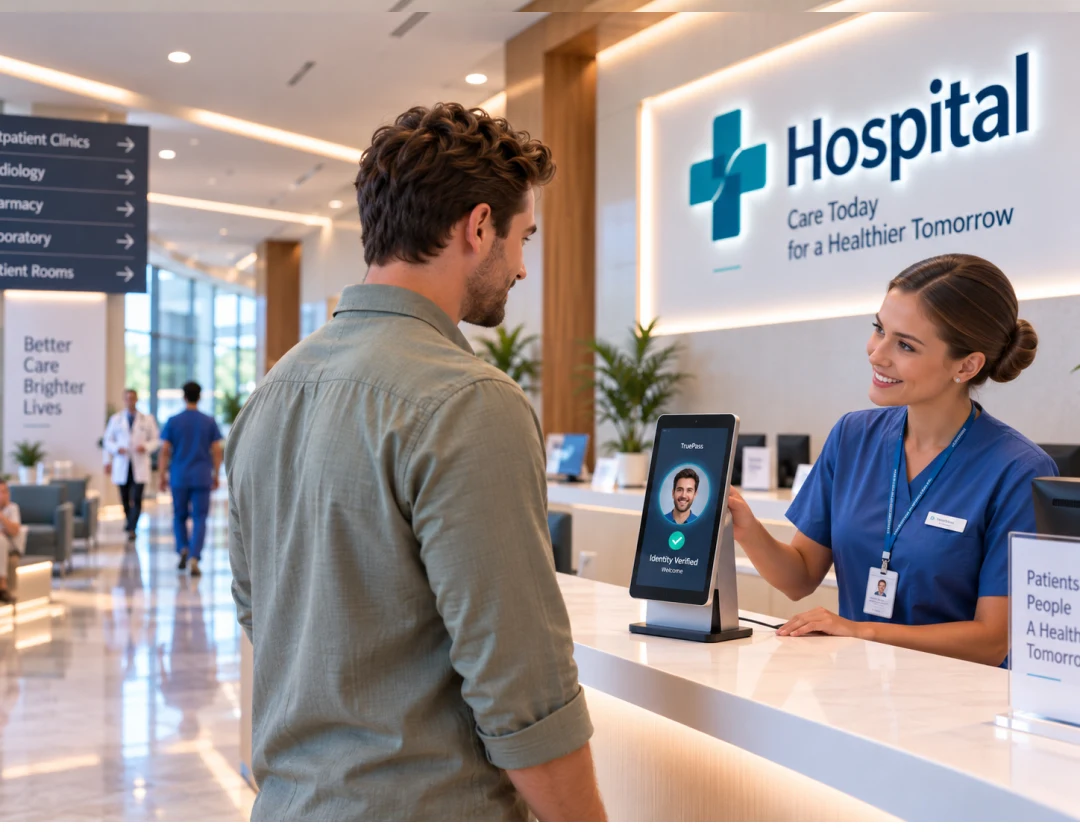
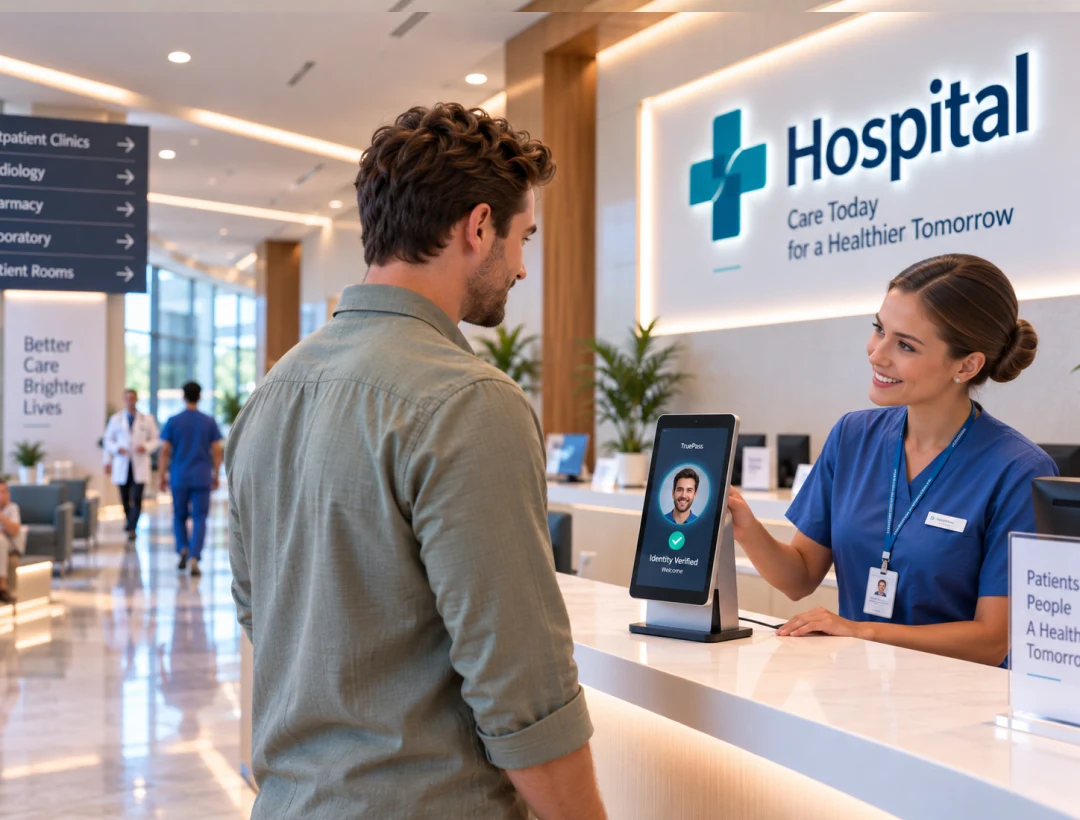
Fix Users copy punctuation and balance industry panel
QA bugs TP-011 to TP-015. Users page: colon in the hero identity line,
comma in the fraud benefit, bracketed checkpoint list in the airport
use case, em dash in the use-cases heading.

Industry Solutions: the text column was a fixed height with the CTA
pinned to the bottom, so tabs with less copy (Healthcare) left a large
gap above the button. It now uses one 32px rhythm, separates fits and
gains with dividers and is centred against the photo. The healthcare
photo had a white band baked into its bottom 14px; optimize-images now
crops it.

diff --git a/components/sections/enterprises/IndustrySolutions.tsx b/components/sections/enterprises/IndustrySolutions.tsx
@@ -117,14 +117,20 @@ export default function IndustrySolutions() {
           <Tabs id={id} label="Industries" tabs={industries.map((ind) => ind.tab)} active={active} onChange={setActive} />
         </div>
 
-        <div id={`${id}-panel`} role="tabpanel" aria-labelledby={`${id}-t${active}`} className="flex w-full flex-col gap-10 lg:flex-row">
-          <div className="flex flex-col justify-between gap-8 lg:h-[568px] lg:flex-1 xl:h-[520px]">
-            <div className="flex flex-col gap-6">
-              <div className="flex flex-col gap-3">
-                <h3 className="heading-md max-w-[512px]">{current.title}</h3>
-                <p className="max-w-[440px] text-lg leading-7 text-ink-3/80">{current.intro}</p>
-              </div>
-              <div className="flex flex-col gap-3">
+        {/* Text is centred against the photo with one 32px rhythm, so tabs with less copy don't leave a gap above the CTA */}
+        <div
+          id={`${id}-panel`}
+          role="tabpanel"
+          aria-labelledby={`${id}-t${active}`}
+          className="flex w-full flex-col gap-10 lg:flex-row lg:items-center"
+        >
+          <div className="flex flex-col gap-8 lg:flex-1">
+            <div className="flex flex-col gap-3">
+              <h3 className="heading-md max-w-[512px]">{current.title}</h3>
+              <p className="max-w-[440px] text-lg leading-7 text-ink-3/80">{current.intro}</p>
+            </div>
+            <div className="flex flex-col divide-y divide-line border-y border-line">
+              <div className="flex flex-col gap-3 py-5">
                 <h4 className={label}>Where it fits</h4>
                 <ul className="flex flex-wrap gap-2">
                   {current.fits.map((fit) => (
@@ -134,7 +140,7 @@ export default function IndustrySolutions() {
                   ))}
                 </ul>
               </div>
-              <div className="flex flex-col gap-3">
+              <div className="flex flex-col gap-3 py-5">
                 <h4 className={label}>What merchants gain</h4>
                 <ul className="grid gap-x-6 gap-y-2.5 text-sm leading-5 sm:grid-cols-2">
                   {current.gain.map((gain) => (

diff --git a/components/sections/users/UseCases.tsx b/components/sections/users/UseCases.tsx
@@ -11,7 +11,7 @@ const useCases = [
   {
     tab: "Airports",
     title: "From hours in the queue to seconds at the gate.",
-    text: "One glance verifies your identity at every checkpoint, check-in, security, and boarding, cutting wait times substantially and eliminating document fraud.",
+    text: "One glance verifies your identity at every checkpoint (check-in, security, and boarding), cutting wait times and reducing document fraud.",
     image: "use-case-airports",
     alt: "Traveller showing a TruePas travel pass on his phone in an airport terminal",
   },
@@ -65,7 +65,7 @@ export default function UseCases() {
         <div className="flex w-full flex-col items-center gap-10">
           <div className="flex flex-col items-center gap-4">
             <SectionLabel>Use-cases</SectionLabel>
-            <h2 className="heading-xl max-w-[796px] text-center">From Check-In to Check-Out - Your Face Is the Key.</h2>
+            <h2 className="heading-xl max-w-[796px] text-center">From Check-In to Check-Out — Your Face Is the Key.</h2>
           </div>
           <Tabs id={id} label="Use-cases" tabs={useCases.map((u) => u.tab)} active={active} onChange={setActive} />
         </div>

diff --git a/components/sections/users/Benefits.tsx b/components/sections/users/Benefits.tsx
@@ -3,7 +3,7 @@ import IconBox from "@/components/ui/IconBox";
 const benefits = [
   { icon: "apps", title: "Unified identity", text: "Single verification that eliminates friction and grants access across multiple platforms. " },
   { icon: "database-off", title: "Contactless Convenience", text: "Access complete verification without reaching for your phone or documents." },
-  { icon: "encrypted", title: "Fraud & Identity-Theft Protection", text: "3D liveness detection blocks spoofing creating a safer environment for every user." },
+  { icon: "encrypted", title: "Fraud & Identity-Theft Protection", text: "3D liveness detection blocks spoofing, creating a safer environment for every user." },
   { icon: "acute", title: "Sub-3-Second Verification", text: "Real-time biometric matching at any touchpoint, no matter the venue." },
   { icon: "home-work", title: "Works in diverse conditions", text: "Verifies accurately from various angles and in low-light conditions, even with masks and glasses." },
   { icon: "sensor-occupied", title: "Efficiency at Scale", text: "A single identity across physical touchpoints that is effortless and eliminates queues." },

diff --git a/components/sections/users/Hero.tsx b/components/sections/users/Hero.tsx
@@ -16,7 +16,7 @@ export default function Hero() {
             </h1>
             <p className="max-w-[468px] text-base leading-6 whitespace-pre-line text-ink-3">
               {
-                "In a tech-savvy world, simplicity is expected and security is non-negotiable. When both coexist seamlessly, that's where revolution happens.\n\nTruePas is the inevitable evolution of identity in a connected world; a single, reusable biometric identity, enrolled once and used across airports, hotels, cruise terminals, car rentals, theme parks, venues, and healthcare. Delivered with privacy, security, and full user control."
+                "In a tech-savvy world, simplicity is expected and security is non-negotiable. When both coexist seamlessly, that's where revolution happens.\n\nTruePas is the inevitable evolution of identity in a connected world: a single, reusable biometric identity, enrolled once and used across airports, hotels, cruise terminals, car rentals, theme parks, venues, and healthcare. Delivered with privacy, security, and full user control."
               }
             </p>
           </div>
